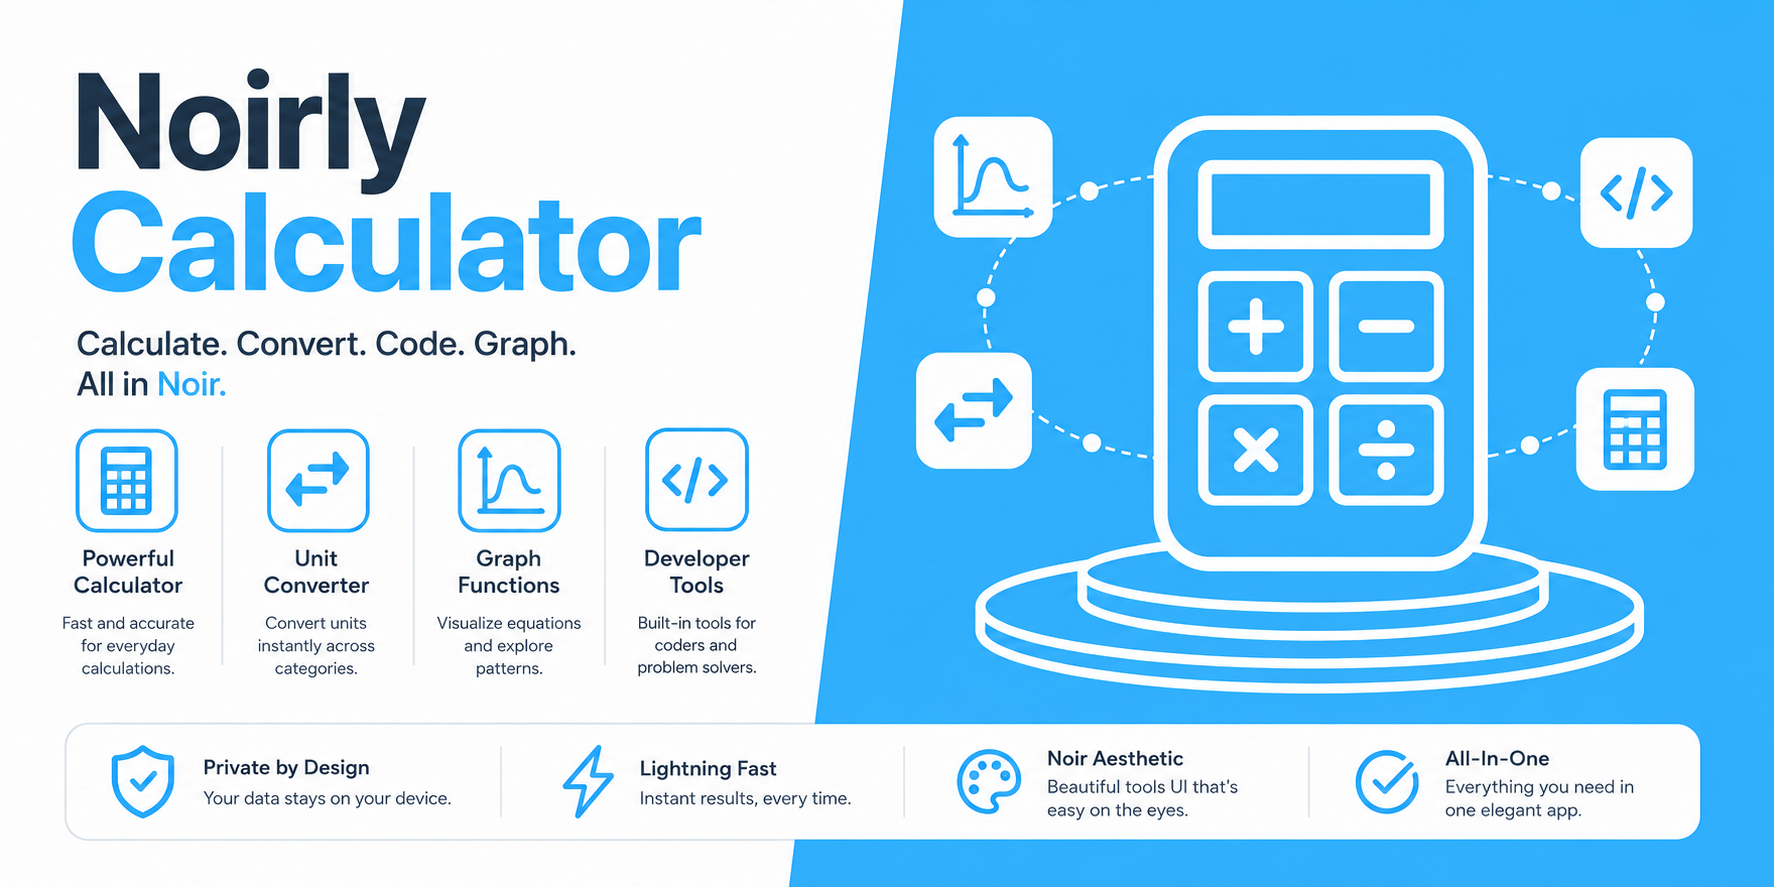
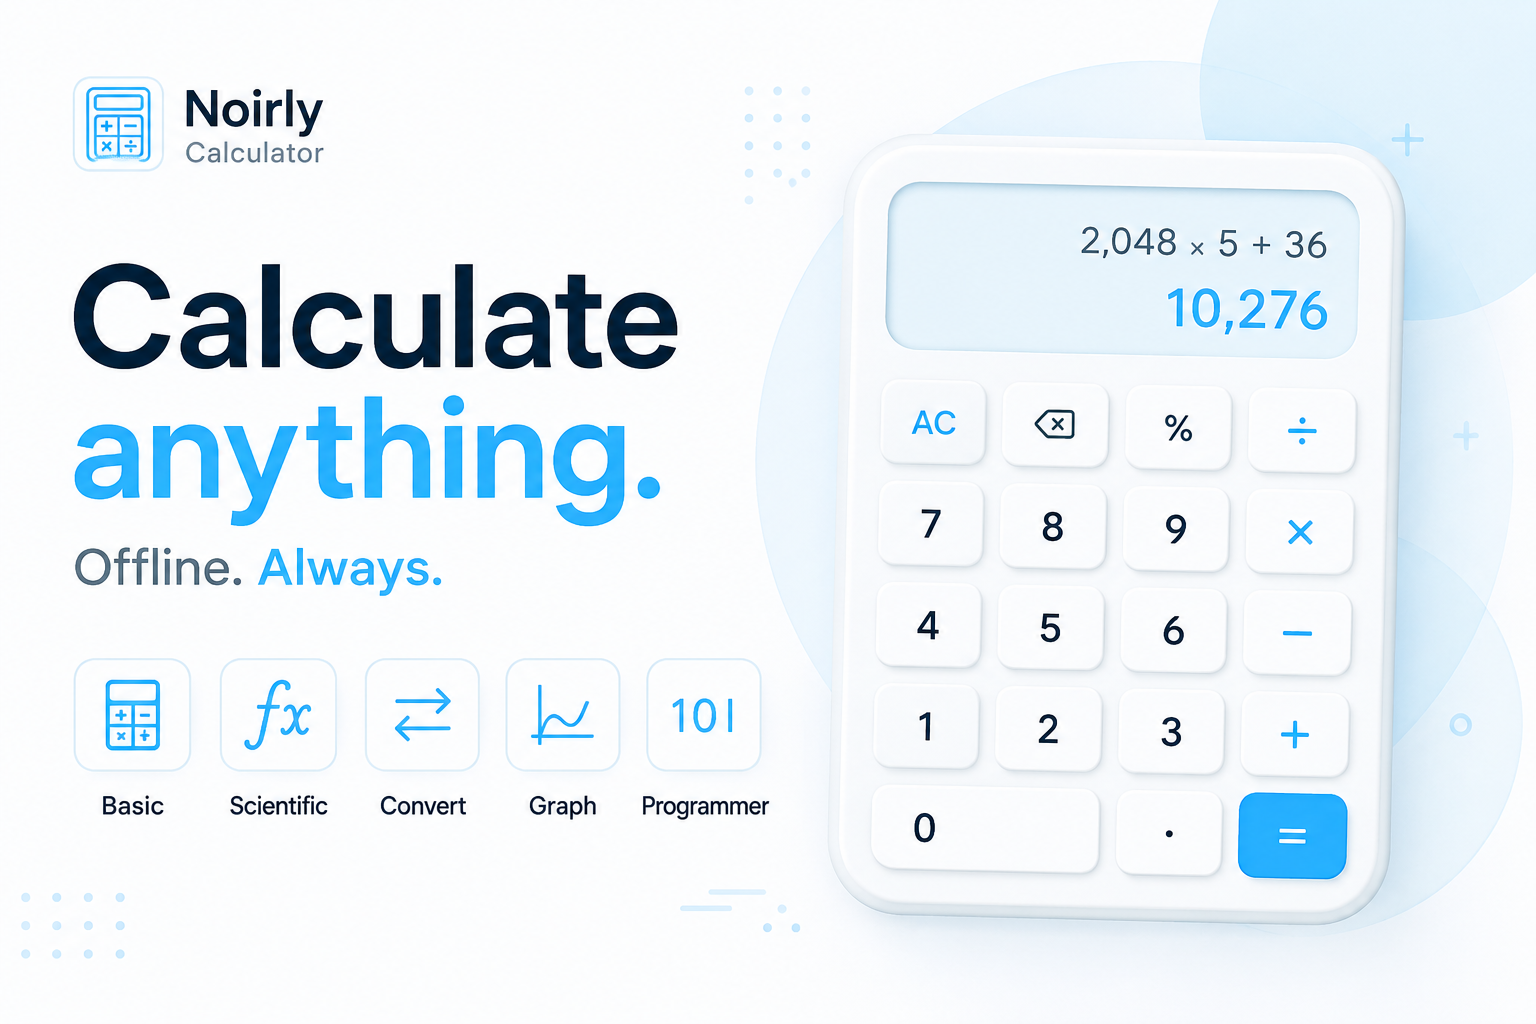
theme changes

diff --git a/src/theme/colors.ts b/src/theme/colors.ts
@@ -1,103 +1,107 @@
-// Noirly Calculator — aligned with Noirly AlgoLab palette
+// Noirly Calculator — aligned with noirlyTheme
+
+import { noirlyTheme } from './noirly-theme';
+
+const { dark: d, light: l } = noirlyTheme;
 
 export const lightColors = {
-  background:                '#ffffff',
-  surface:                   '#f8fafc',
-  surfaceDim:                '#ffffff',
-  surfaceBright:             '#f1f5f9',
-  surfaceContainerLowest:    '#ffffff',
-  surfaceContainerLow:       '#f8fafc',
-  surfaceContainer:          '#f8fafc',
-  surfaceContainerHigh:      '#f1f5f9',
-  surfaceContainerHighest:   '#e2e8f0',
-  surfaceVariant:            '#f1f5f9',
-  surfaceTint:               '#0284c7',
-  onSurface:                 '#0f172a',
-  onSurfaceVariant:          '#64748b',
-  onBackground:              '#0f172a',
-  inverseSurface:            '#0f172a',
-  inverseOnSurface:          '#ffffff',
-  outline:                   '#cbd5e1',
-  outlineVariant:            '#e2e8f0',
-  primary:                   '#0284c7',
-  onPrimary:                 '#ffffff',
-  primaryContainer:          '#0284c7',
-  onPrimaryContainer:        '#ffffff',
-  inversePrimary:            '#38bdf8',
-  primaryFixed:              '#e0f2fe',
-  primaryFixedDim:           '#0284c7',
-  onPrimaryFixed:            '#ffffff',
-  onPrimaryFixedVariant:     '#0369a1',
-  secondary:                 '#64748b',
-  onSecondary:               '#ffffff',
-  secondaryContainer:        '#f1f5f9',
-  onSecondaryContainer:      '#64748b',
-  secondaryFixed:            '#64748b',
-  secondaryFixedDim:         '#475569',
-  onSecondaryFixed:          '#ffffff',
-  onSecondaryFixedVariant:   '#94a3b8',
-  tertiary:                  '#ea580c',
-  onTertiary:                '#ffffff',
-  tertiaryContainer:         '#ffedd5',
-  onTertiaryContainer:       '#ea580c',
-  tertiaryFixed:             '#ea580c',
-  tertiaryFixedDim:          '#c2410c',
-  onTertiaryFixed:           '#ffffff',
-  onTertiaryFixedVariant:    '#fdba74',
-  error:                     '#ef4444',
-  onError:                   '#ffffff',
-  errorContainer:            '#fee2e2',
-  onErrorContainer:          '#ef4444',
+  background:                l.background,
+  surface:                   l.surface,
+  surfaceDim:                l.surface,
+  surfaceBright:             l.surfaceVariant,
+  surfaceContainerLowest:    l.surface,
+  surfaceContainerLow:       l.surfaceVariant,
+  surfaceContainer:          l.surface,
+  surfaceContainerHigh:      l.surfaceVariant,
+  surfaceContainerHighest:   l.divider,
+  surfaceVariant:            l.surfaceVariant,
+  surfaceTint:               l.primary,
+  onSurface:                 l.textPrimary,
+  onSurfaceVariant:          l.textSecondary,
+  onBackground:              l.textPrimary,
+  inverseSurface:            l.textPrimary,
+  inverseOnSurface:          l.surface,
+  outline:                   l.border,
+  outlineVariant:            l.divider,
+  primary:                   l.primary,
+  onPrimary:                 l.textPrimary,
+  primaryContainer:          l.primary,
+  onPrimaryContainer:        l.textPrimary,
+  inversePrimary:            d.primary,
+  primaryFixed:              l.primarySoft,
+  primaryFixedDim:           l.primaryHover,
+  onPrimaryFixed:            l.textPrimary,
+  onPrimaryFixedVariant:     l.textSecondary,
+  secondary:                 l.textMuted,
+  onSecondary:               l.surface,
+  secondaryContainer:        l.surfaceVariant,
+  onSecondaryContainer:      l.textSecondary,
+  secondaryFixed:            l.textMuted,
+  secondaryFixedDim:         l.textSecondary,
+  onSecondaryFixed:          l.surface,
+  onSecondaryFixedVariant:   l.textMuted,
+  tertiary:                  l.warning,
+  onTertiary:                l.textPrimary,
+  tertiaryContainer:         l.primarySoft,
+  onTertiaryContainer:       l.warning,
+  tertiaryFixed:             l.warning,
+  tertiaryFixedDim:          l.warning,
+  onTertiaryFixed:           l.textPrimary,
+  onTertiaryFixedVariant:    l.warning,
+  error:                     l.error,
+  onError:                   l.surface,
+  errorContainer:            l.primarySoft,
+  onErrorContainer:          l.error,
 } as const;
 
 export const darkColors = {
-  background:                '#0b0f19',
-  surface:                   '#111827',
-  surfaceDim:                '#0b0f19',
-  surfaceBright:             '#1f2937',
-  surfaceContainerLowest:    '#0b0f19',
-  surfaceContainerLow:       '#111827',
-  surfaceContainer:          '#111827',
-  surfaceContainerHigh:      '#1f2937',
-  surfaceContainerHighest:   '#334155',
-  surfaceVariant:            '#1f2937',
-  surfaceTint:               '#38bdf8',
-  onSurface:                 '#f1f5f9',
-  onSurfaceVariant:          '#94a3b8',
-  onBackground:              '#f1f5f9',
-  inverseSurface:            '#f1f5f9',
-  inverseOnSurface:          '#0b0f19',
-  outline:                   '#475569',
-  outlineVariant:            '#334155',
-  primary:                   '#38bdf8',
-  onPrimary:                 '#0b0f19',
-  primaryContainer:          '#38bdf8',
-  onPrimaryContainer:        '#0b0f19',
-  inversePrimary:            '#0284c7',
-  primaryFixed:              '#0c4a6e',
-  primaryFixedDim:           '#38bdf8',
-  onPrimaryFixed:            '#0b0f19',
-  onPrimaryFixedVariant:     '#bae6fd',
-  secondary:                 '#94a3b8',
-  onSecondary:               '#0b0f19',
-  secondaryContainer:        '#1f2937',
-  onSecondaryContainer:      '#94a3b8',
-  secondaryFixed:            '#94a3b8',
-  secondaryFixedDim:         '#64748b',
-  onSecondaryFixed:          '#0b0f19',
-  onSecondaryFixedVariant:   '#cbd5e1',
-  tertiary:                  '#fbbf24',
-  onTertiary:                '#0b0f19',
-  tertiaryContainer:         '#422006',
-  onTertiaryContainer:       '#fbbf24',
-  tertiaryFixed:             '#fbbf24',
-  tertiaryFixedDim:          '#d97706',
-  onTertiaryFixed:           '#0b0f19',
-  onTertiaryFixedVariant:    '#fde68a',
-  error:                     '#ef4444',
-  onError:                   '#ffffff',
-  errorContainer:            '#450a0a',
-  onErrorContainer:          '#fca5a5',
+  background:                d.background,
+  surface:                   d.surface,
+  surfaceDim:                d.background,
+  surfaceBright:             d.surfaceVariant,
+  surfaceContainerLowest:    d.background,
+  surfaceContainerLow:       d.surface,
+  surfaceContainer:          d.surface,
+  surfaceContainerHigh:      d.surfaceVariant,
+  surfaceContainerHighest:   d.divider,
+  surfaceVariant:            d.surfaceVariant,
+  surfaceTint:               d.primary,
+  onSurface:                 d.textPrimary,
+  onSurfaceVariant:          d.textSecondary,
+  onBackground:              d.textPrimary,
+  inverseSurface:            d.textPrimary,
+  inverseOnSurface:          d.background,
+  outline:                   d.border,
+  outlineVariant:            d.divider,
+  primary:                   d.primary,
+  onPrimary:                 d.background,
+  primaryContainer:          d.primary,
+  onPrimaryContainer:        d.background,
+  inversePrimary:            l.primaryHover,
+  primaryFixed:              d.primarySoft,
+  primaryFixedDim:           d.primary,
+  onPrimaryFixed:            d.background,
+  onPrimaryFixedVariant:     d.textSecondary,
+  secondary:                 d.textMuted,
+  onSecondary:               d.background,
+  secondaryContainer:        d.surfaceVariant,
+  onSecondaryContainer:      d.textSecondary,
+  secondaryFixed:            d.textMuted,
+  secondaryFixedDim:         d.textSecondary,
+  onSecondaryFixed:          d.background,
+  onSecondaryFixedVariant:   d.textMuted,
+  tertiary:                  d.warning,
+  onTertiary:                d.background,
+  tertiaryContainer:         d.primarySoft,
+  onTertiaryContainer:       d.warning,
+  tertiaryFixed:             d.warning,
+  tertiaryFixedDim:          d.warning,
+  onTertiaryFixed:           d.background,
+  onTertiaryFixedVariant:    d.warning,
+  error:                     d.error,
+  onError:                   d.textPrimary,
+  errorContainer:            d.primarySoft,
+  onErrorContainer:          d.error,
 } as const;
 
 export type Colors = Record<keyof typeof lightColors, string>;

diff --git a/src/index.css b/src/index.css
@@ -34,7 +34,12 @@
   --color-on-secondary-container: var(--theme-on-surface-variant);
   --color-secondary-container: var(--theme-surface-high);
   --color-inverse-surface: var(--theme-on-surface);
-  --color-error: #ef4444;
+  --color-error: var(--theme-error);
+  --color-success: var(--theme-success);
+  --color-warning: var(--theme-warning);
+  --color-primary-hover: var(--theme-primary-hover);
+  --color-icon: var(--theme-icon);
+  --color-icon-active: var(--theme-icon-active);
 
   --font-display: var(--font-geist-sans);
   --font-display-mobile: var(--font-geist-sans);
@@ -86,46 +91,60 @@
   --radius-full: 9999px;
 }
 
-/* Dark theme — #0B0F19 / #111827 / #38BDF8 */
+/* Dark theme — noirlyTheme */
 html.dark {
-  --theme-background: #0b0f19;
-  --theme-surface: #111827;
-  --theme-surface-high: #1f2937;
-  --theme-surface-dim: #0b0f19;
+  --theme-background: #020617;
+  --theme-surface: #0f172a;
+  --theme-surface-high: #111827;
+  --theme-surface-dim: #020617;
   --theme-primary: #38bdf8;
-  --theme-on-surface: #f1f5f9;
+  --theme-primary-hover: #0ea5e9;
+  --theme-on-surface: #f8fafc;
   --theme-on-surface-variant: #94a3b8;
-  --theme-outline: #475569;
+  --theme-text-muted: #64748b;
+  --theme-outline: #1e293b;
   --theme-outline-variant: #334155;
-  --theme-tertiary: #fbbf24;
-  --theme-on-primary: #0b0f19;
-  --theme-glass-bg: rgba(17, 24, 39, 0.75);
+  --theme-tertiary: #f59e0b;
+  --theme-on-primary: #020617;
+  --theme-success: #22c55e;
+  --theme-warning: #f59e0b;
+  --theme-error: #ef4444;
+  --theme-icon: #e2e8f0;
+  --theme-icon-active: #38bdf8;
+  --theme-glass-bg: rgba(15, 23, 42, 0.75);
   --theme-glass-border: rgba(255, 255, 255, 0.1);
-  --theme-scrollbar-track: #0b0f19;
+  --theme-scrollbar-track: #020617;
   --theme-scrollbar-thumb: rgba(255, 255, 255, 0.15);
-  --theme-accent-muted: rgba(56, 189, 248, 0.12);
+  --theme-accent-muted: #082f49;
   --theme-accent-border: rgba(56, 189, 248, 0.35);
 }
 
-/* Light theme — #FFFFFF / #F8FAFC / #0284C7 */
+/* Light theme — noirlyTheme */
 html.light {
-  --theme-background: #ffffff;
-  --theme-surface: #f8fafc;
+  --theme-background: #f8fafc;
+  --theme-surface: #ffffff;
   --theme-surface-high: #f1f5f9;
   --theme-surface-dim: #ffffff;
-  --theme-primary: #0284c7;
-  --theme-on-surface: #0f172a;
-  --theme-on-surface-variant: #64748b;
-  --theme-outline: #cbd5e1;
-  --theme-outline-variant: #e2e8f0;
-  --theme-tertiary: #ea580c;
-  --theme-on-primary: #ffffff;
+  --theme-primary: #38bdf8;
+  --theme-primary-hover: #0284c7;
+  --theme-on-surface: #020617;
+  --theme-on-surface-variant: #475569;
+  --theme-text-muted: #94a3b8;
+  --theme-outline: #e2e8f0;
+  --theme-outline-variant: #cbd5e1;
+  --theme-tertiary: #d97706;
+  --theme-on-primary: #020617;
+  --theme-success: #16a34a;
+  --theme-warning: #d97706;
+  --theme-error: #dc2626;
+  --theme-icon: #334155;
+  --theme-icon-active: #38bdf8;
   --theme-glass-bg: rgba(255, 255, 255, 0.9);
   --theme-glass-border: rgba(0, 0, 0, 0.08);
   --theme-scrollbar-track: #f1f5f9;
   --theme-scrollbar-thumb: rgba(0, 0, 0, 0.15);
-  --theme-accent-muted: rgba(2, 132, 199, 0.08);
-  --theme-accent-border: rgba(2, 132, 199, 0.3);
+  --theme-accent-muted: #e0f2fe;
+  --theme-accent-border: rgba(56, 189, 248, 0.3);
 }
 
 .material-symbols-outlined {

diff --git a/src/theme/noirly-theme.ts b/src/theme/noirly-theme.ts
@@ -1,0 +1,41 @@
+export const noirlyTheme = {
+  dark: {
+    background: '#020617',
+    surface: '#0F172A',
+    surfaceVariant: '#111827',
+    primary: '#38BDF8',
+    primaryHover: '#0EA5E9',
+    primarySoft: '#082F49',
+    textPrimary: '#F8FAFC',
+    textSecondary: '#94A3B8',
+    textMuted: '#64748B',
+    border: '#1E293B',
+    divider: '#334155',
+    success: '#22C55E',
+    warning: '#F59E0B',
+    error: '#EF4444',
+    icon: '#E2E8F0',
+    iconActive: '#38BDF8',
+  },
+  light: {
+    background: '#F8FAFC',
+    surface: '#FFFFFF',
+    surfaceVariant: '#F1F5F9',
+    primary: '#38BDF8',
+    primaryHover: '#0284C7',
+    primarySoft: '#E0F2FE',
+    textPrimary: '#020617',
+    textSecondary: '#475569',
+    textMuted: '#94A3B8',
+    border: '#E2E8F0',
+    divider: '#CBD5E1',
+    success: '#16A34A',
+    warning: '#D97706',
+    error: '#DC2626',
+    icon: '#334155',
+    iconActive: '#38BDF8',
+  },
+} as const;
+
+export type NoirlyThemeMode = keyof typeof noirlyTheme;
+export type NoirlyThemeTokens = (typeof noirlyTheme)[NoirlyThemeMode];